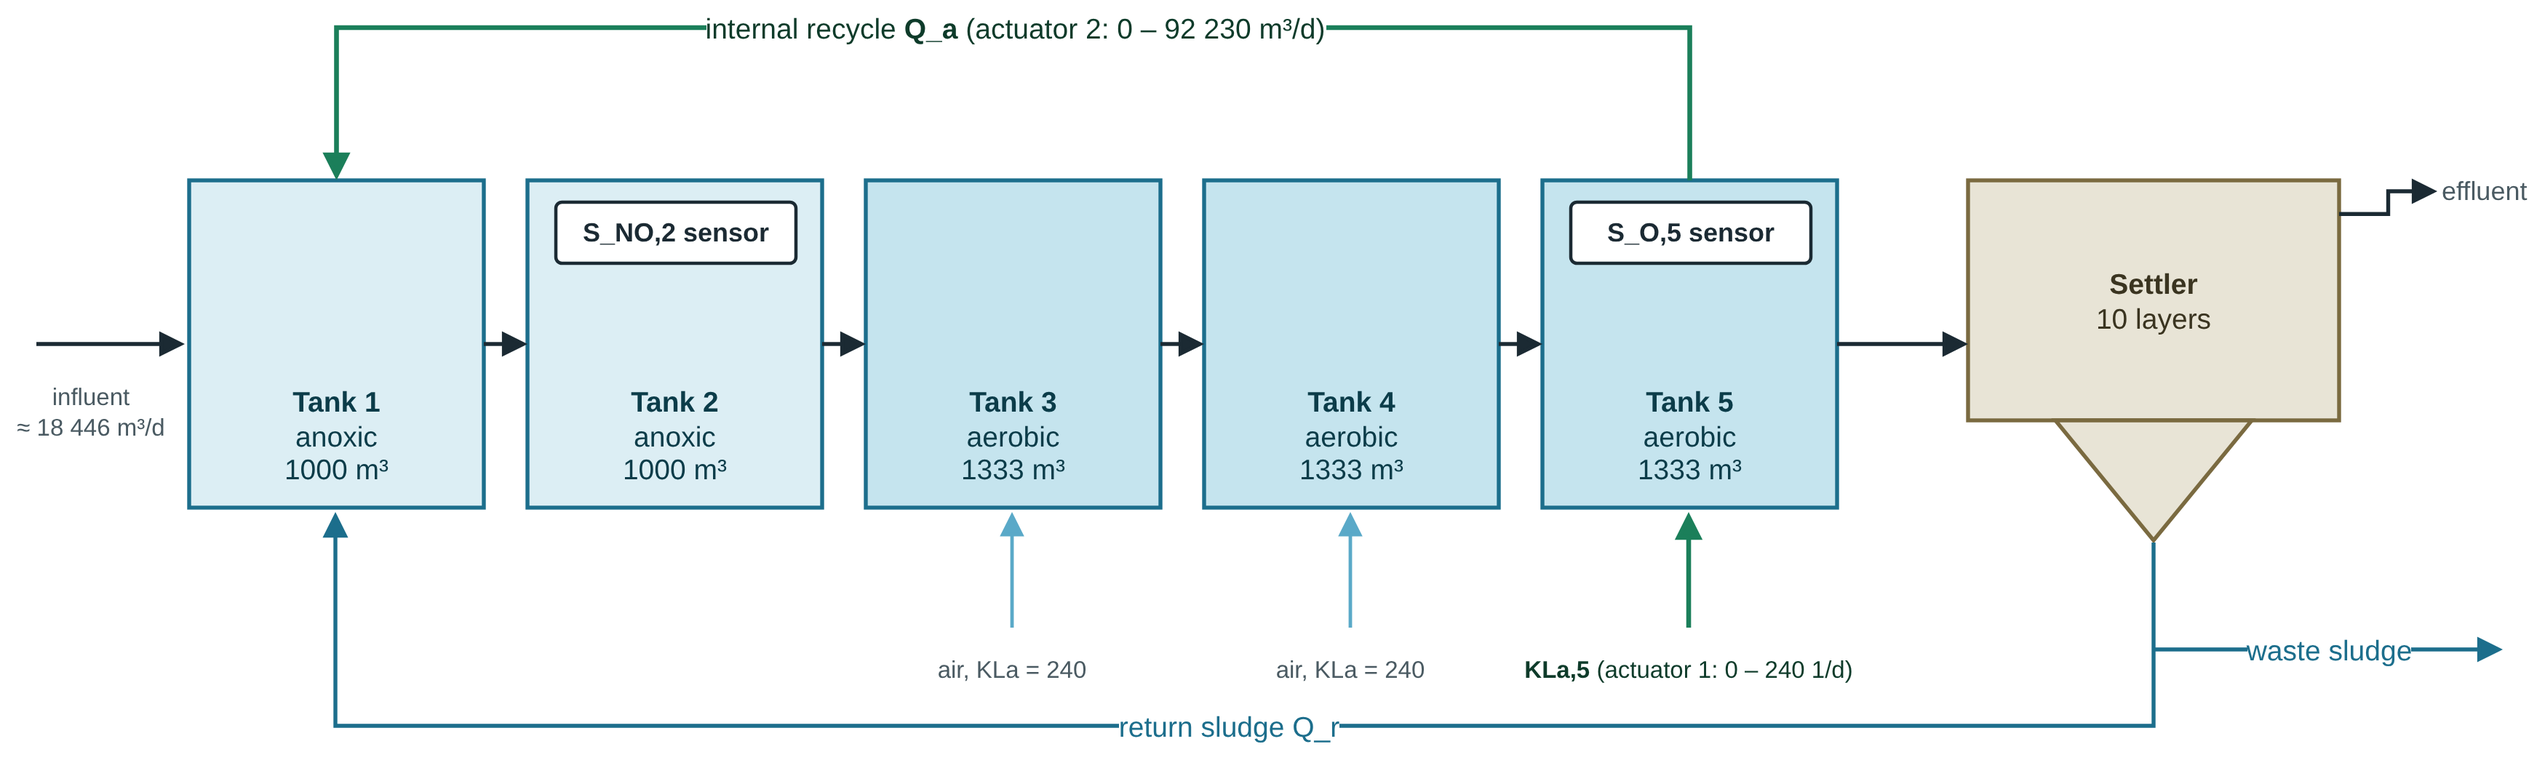
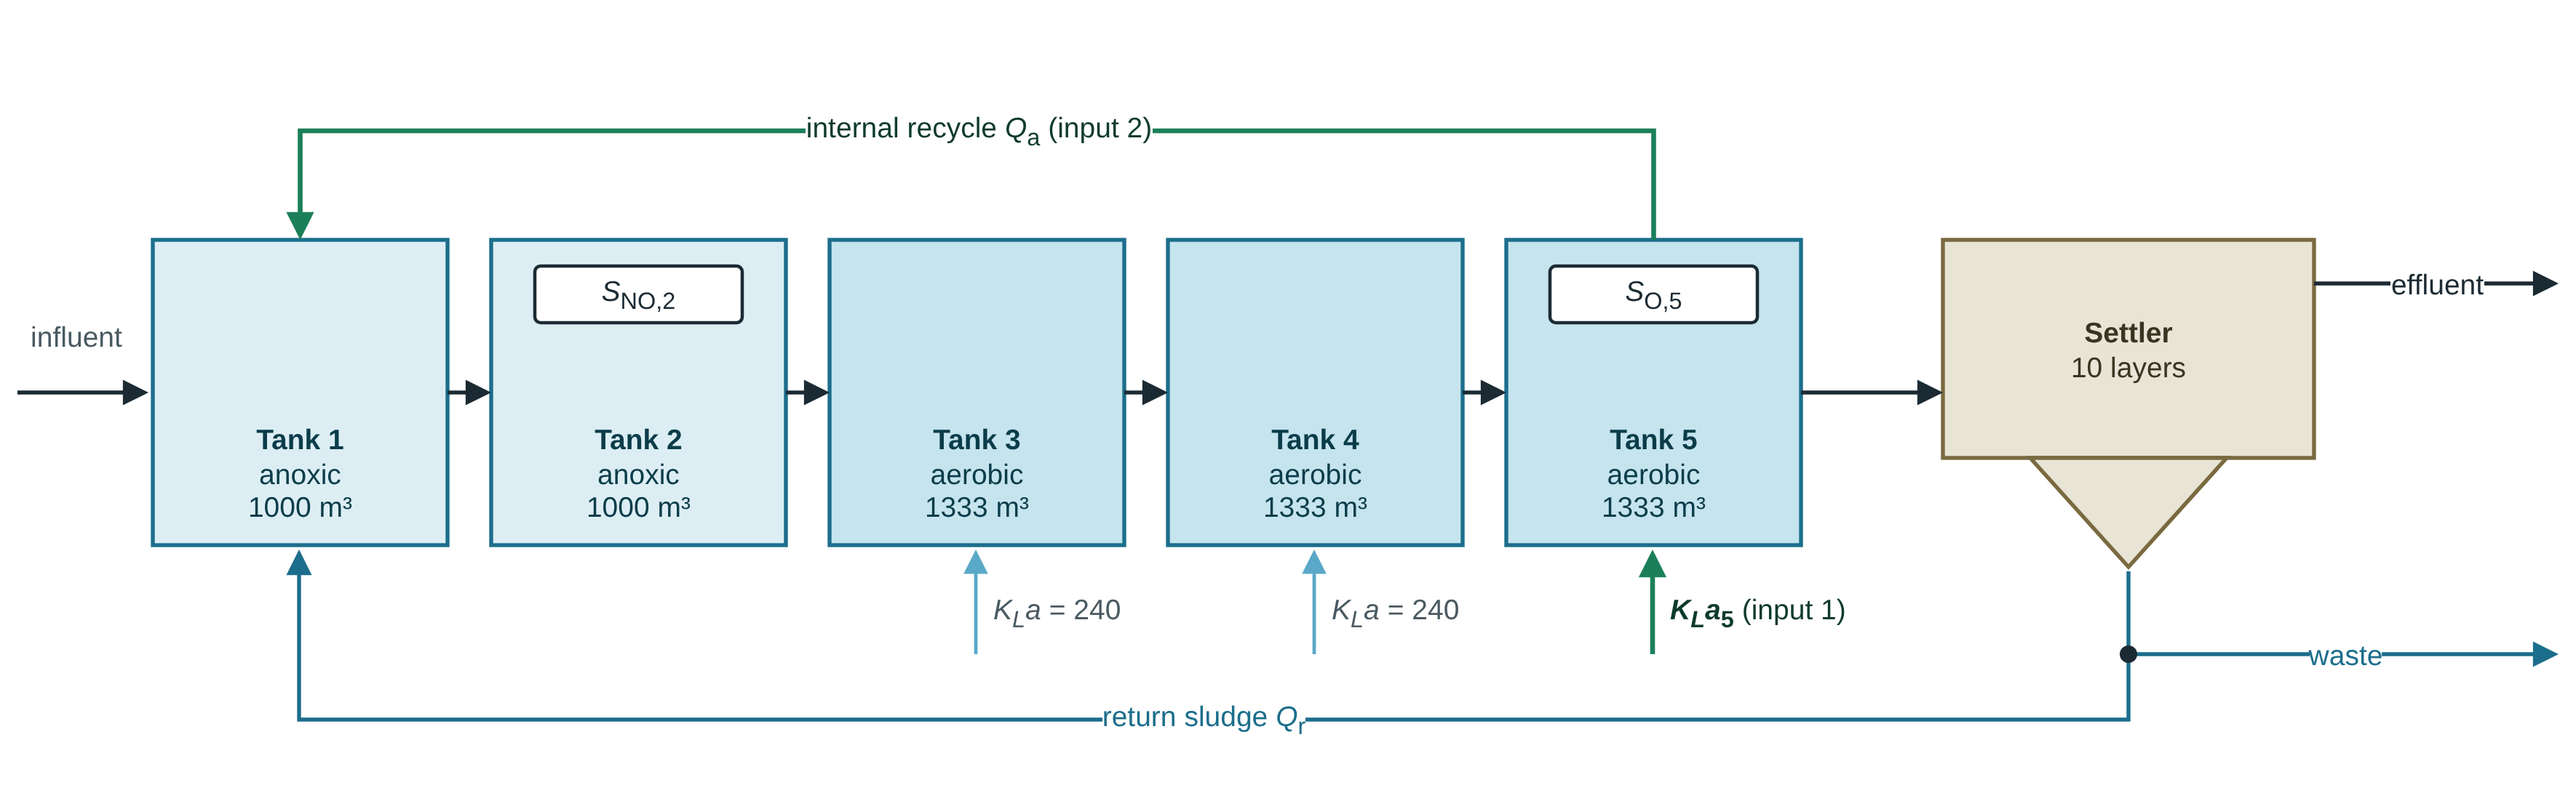
Paper 1: clean paper diagrams (draw.io), headline and in-plant trace figures

diff --git a/experiments/47_paper1_paper_figures.py b/experiments/47_paper1_paper_figures.py
@@ -1,0 +1,120 @@
+"""Two figures for the paper, drawn from stored results only (no number typed by hand).
+
+f0_headline.png  base vs ours: % change of oxygen IAE against the paper's PID, paired over the
+                 runs both finished (results/paper1_final_figure_table.json, written by script 45).
+f8_inside.png    what the controller does: true oxygen and aeration over two days of the dry test
+                 week, paper's PID against tuned PID + ILC (results/traces_paper1_study.json).
+"""
+from __future__ import annotations
+
+import json
+from pathlib import Path
+
+import matplotlib
+
+matplotlib.use("Agg")
+import matplotlib.pyplot as plt  # noqa: E402
+import numpy as np  # noqa: E402
+
+ROOT = Path(__file__).resolve().parents[1]
+RES = ROOT / "results"
+OUT = ROOT / "docs" / "figures" / "final"
+INK, INK2, MUTED, GRID, AXIS, SURF = "#0b0b0b", "#52514e", "#898781", "#e1e0d9", "#c3c2b7", "#fcfcfb"
+BLUE, GREEN = "#2a78d6", "#118a62"          # validated pair (all six checks pass on SURF)
+plt.rcParams.update({
+    "font.family": "DejaVu Sans", "font.size": 9, "text.color": INK, "axes.labelcolor": INK2,
+    "axes.edgecolor": AXIS, "axes.linewidth": 0.8, "xtick.color": INK2, "ytick.color": INK2,
+    "axes.grid": True, "grid.color": GRID, "grid.linewidth": 0.6, "axes.axisbelow": True,
+    "axes.spines.top": False, "axes.spines.right": False, "figure.facecolor": SURF, "axes.facecolor": SURF,
+    "savefig.facecolor": SURF, "legend.frameon": False, "axes.titlesize": 9.5, "axes.titlelocation": "left",
+})
+
+
+def paired(S, cond, c, ref="PID"):
+    a, b = S[cond][c]["units"], S[cond][ref]["units"]
+    common = sorted(set(a) & set(b))
+    if not common:
+        return None
+    return 100 * (np.mean([a[u] for u in common]) / np.mean([b[u] for u in common]) - 1)
+
+
+def headline():
+    S = json.loads((RES / "paper1_final_figure_table.json").read_text())
+    conds = [("tw_dry", "Dry"), ("tw_rain", "Rain"), ("tw_storm", "Storm"), ("H4", "New\ninfluent (H4)"),
+             ("H6", "Sensors\n(H6)"), ("H7", "Influent +\nsensors (H7)")]
+    series = [("MAACC", "Base: MAACC as printed", INK2), ("PIDtuned+ILC", "Ours: tuned PID + ILC", BLUE),
+              ("Robust", "Ours: robust variant", GREEN)]
+    fig, ax = plt.subplots(figsize=(7.2, 3.4))
+    w, gap = 0.26, 0.02
+    for i, (c, lab, col) in enumerate(series):
+        for j, (cond, _) in enumerate(conds):
+            x = j + (i - 1) * (w + gap)
+            v = paired(S, cond, c)
+            if v is None:                       # every run failed: marked, never drawn as a value
+                ax.text(x, 3, "✗\nall\nfailed", ha="center", va="bottom", fontsize=7, color=INK2, linespacing=0.95)
+                continue
+            ax.bar(x, v, w, color=col, zorder=3)
+            if c != "MAACC" or abs(v) > 0.5:
+                ax.text(x, v + (2 if v >= 0 else -2), f"{v:+.0f}".replace("-", "−"), ha="center", va="bottom" if v >= 0 else "top",
+                        fontsize=7.5, color=INK)
+            else:
+                ax.text(x, 2, "0", ha="center", va="bottom", fontsize=7.5, color=INK)
+    ax.axhline(0, color=INK, lw=1.0, zorder=4)
+    ax.axvline(3.5, color=AXIS, lw=0.8, ls=(0, (3, 3)))
+    ax.text(1.5, 78, "ideal sensors", ha="center", fontsize=8.5, color=INK2)
+    ax.text(4.5, 78, "official sensor noise", ha="center", fontsize=8.5, color=INK2)
+    ax.set_xticks(range(len(conds)), [l for _, l in conds])
+    ax.tick_params(axis="x", length=0)
+    ax.set_ylim(-105, 92)
+    ax.set_yticks([-100, -75, -50, -25, 0, 25, 50], ["−100", "−75", "−50", "−25", "0 = paper's PID", "+25", "+50"])
+    ax.set_ylabel("oxygen IAE vs paper's PID (%)\n← better        worse →")
+    ax.grid(axis="x", visible=False)
+    h = [plt.Rectangle((0, 0), 1, 1, color=col) for _, _, col in series]
+    ax.legend(h, [l for _, l, _ in series], loc="lower right", fontsize=8, ncol=1, bbox_to_anchor=(1.0, 0.0))
+    fig.tight_layout()
+    fig.savefig(OUT / "f0_headline.png", dpi=300)
+    plt.close(fig)
+
+
+def inside():
+    T = json.loads((RES / "traces_paper1_study.json").read_text())
+    a, b = np.array(T["PID|dry|clean"]["s"]), np.array(T["PIDtuned+ILC|dry|clean"]["s"])
+    ua, ub = np.array(T["PID|dry|clean"]["u"]), np.array(T["PIDtuned+ILC|dry|clean"]["u"])
+    n = len(a)
+    t = np.arange(n) * 14.0 / n                     # days
+    m = (t >= 9.0) & (t < 11.0)                     # two weekdays of the test week
+    fig, (ax1, ax2, ax3) = plt.subplots(3, 1, figsize=(7.2, 5.4), sharex=True,
+                                        gridspec_kw=dict(height_ratios=[1.1, 1, 0.8]))
+    ax1.axhline(2.0, color=MUTED, lw=1.0, ls=(0, (4, 3)), zorder=2)
+    ax1.plot(t[m], a[m, 0], color=INK2, lw=1.4, zorder=3)
+    ax1.plot(t[m], b[m, 0], color=BLUE, lw=1.6, zorder=4)
+    ax1.set_ylabel("true $S_{O,5}$ (mg/L)")
+    ax1.set_title("A. Oxygen in tank 5 (set point 2 mg/L)")
+    lo, hi = a[m, 0].min(), a[m, 0].max()
+    pad = 0.15 * (hi - lo)
+    ax1.set_ylim(lo - pad, hi + 2 * pad)
+    ax2.plot(t[m], ub[m, 0], color=BLUE, lw=2.2)
+    ax2.plot(t[m], ua[m, 0], color=INK2, lw=1.1, ls=(0, (4, 2)))
+    ax2.set_ylabel("$K_La_{,5}$ (1/d)")
+    ax2.set_title("B. Aeration: almost the same for both (PID dashed)")
+    dd = ub[m, 0] - ua[m, 0]
+    ax3.axhline(0, color=INK, lw=0.8)
+    ax3.plot(t[m], dd, color=BLUE, lw=1.4)
+    ax3.set_ylabel("difference (1/d)")
+    ax3.set_title(f"C. Tuned PID + ILC minus paper's PID: at most {np.abs(dd).max():.0f} 1/d, "
+                  "timed with the daily load")
+    ax3.set_xlabel("time (days, dry test week)")
+    ax3.set_xlim(9.0, 11.0)
+    ea = np.mean(np.abs(a[m, 0] - 2)); eb = np.mean(np.abs(b[m, 0] - 2))
+    ax1.legend([plt.Line2D([], [], color=INK2, lw=1.6), plt.Line2D([], [], color=BLUE, lw=1.6)],
+               [f"paper's PID (mean |e| {ea:.4f})", f"tuned PID + ILC (mean |e| {eb:.4f})"],
+               loc="upper right", fontsize=8, ncol=2)
+    fig.tight_layout()
+    fig.savefig(OUT / "f8_inside.png", dpi=300)
+    plt.close(fig)
+    print(f"days 9-11 mean |e|: PID {ea:.5f}, tuned PID + ILC {eb:.5f}")
+
+
+if __name__ == "__main__":
+    headline()
+    inside()

diff --git a/tools/diagrams/build_paper.py b/tools/diagrams/build_paper.py
@@ -1,0 +1,103 @@
+"""Paper diagrams, version 2: no titles (the caption names the figure), short labels,
+straight orthogonal arrows, no crossings. Every box placed by hand. Writes v2/*.drawio."""
+from dio import Diagram
+
+SUB = lambda a, b: f"{a}<sub>{b}</sub>"
+DOT = "shape=ellipse;aspect=fixed;fillColor=#1B2A33;strokeColor=none;"
+
+
+def plant():
+    d = Diagram("BSM1 plant", 1180, 360)
+    t = []
+    for k, x in enumerate((70, 225, 380, 535, 690)):
+        air = k >= 2
+        t.append(d.box(x, 110, 135, 140, f"<b>Tank {k+1}</b><br>{'aerobic' if air else 'anoxic'}<br>"
+                       f"{'1333' if air else '1000'} m³", "tankair" if air else "tank"))
+    s = d.box(890, 110, 170, 100, "<b>Settler</b><br>10 layers", "settler")
+    d.box(930, 210, 90, 50, "", "hopper")
+    d.line((8, 180), (68, 180), "")
+    d.box(4, 140, 62, 28, "influent", "textc", "fontSize=13;")
+    for a, b in zip(t, t[1:]):
+        d.edge(a, b, ex=(1, 0.5), en=(0, 0.5))
+    d.edge(t[4], s, ex=(1, 0.5), en=(0, 0.7))
+    d.line((1060, 130), (1172, 130), "effluent")
+    d.edge(t[4], t[0], f"internal recycle {SUB('<i>Q</i>', 'a')}  (input 2)", kind="new",
+           ex=(0.5, 0), en=(0.5, 0), pts=((757, 60), (137, 60)))
+    d.line((975, 262), (137, 252), f"return sludge {SUB('<i>Q</i>', 'r')}", kind="fb", pts=((975, 330), (137, 330)))
+    d.line((975, 300), (1172, 300), "waste", kind="fb")
+    d.box(971, 296, 8, 8, "", "white", DOT)
+    for k, x in enumerate((447, 602, 757)):
+        last = k == 2
+        d.line((x, 300), (x, 252), "", kind="new" if last else "air")
+        d.box(x + 6, 268, 130, 26, ("<b>" + SUB("<i>K<sub>L</sub>a</i>", "5") + "</b> (input 1)") if last
+              else "<i>K<sub>L</sub>a</i> = 240", "text", "fontSize=13;" + ("fontColor=#0E3B2A;" if last else ""))
+    d.box(245, 122, 95, 26, SUB("<i>S</i>", "NO,2"), "white", "fontSize=13;")
+    d.box(710, 122, 95, 26, SUB("<i>S</i>", "O,5"), "white", "fontSize=13;")
+    d.save("paper/plant.drawio")
+
+
+def maacc():
+    d = Diagram("MAACC (paper 1)", 930, 450)
+    d.box(20, 20, 640, 410, "Agent <i>i</i>  (<i>i</i> = 1 oxygen, <i>i</i> = 2 nitrate)", "group")
+    act = d.box(50, 80, 170, 60, "Action network<br>Δ<i>a<sub>i</sub></i> = π<sub><i>i</i></sub>(<i>z<sub>i</sub></i>)", "paper")
+    itg = d.box(270, 80, 130, 60, "Integrate<br><i>a<sub>i</sub></i> ← <i>a<sub>i</sub></i> + Δ<i>a<sub>i</sub></i>", "paper")
+    sm = d.box(490, 85, 50, 50, "Σ", "sum")
+    pid = d.box(440, 200, 150, 60, "Expert PID<br><i>b<sub>i</sub></i>(<i>z<sub>i</sub></i>)", "paper")
+    cr = d.box(170, 230, 190, 60, "Critic <i>Q<sub>i</sub></i>(<i>z</i>, <i>a</i><sub>1</sub>, <i>a</i><sub>2</sub>)<br>one-step TD update", "paper")
+    z = d.box(195, 350, 140, 50, "<i>z</i> = <i>y</i> − <i>r</i>", "white")
+    pl = d.box(730, 70, 170, 80, "<b>BSM1</b>", "plant")
+    d.edge(act, itg, ex=(1, 0.5), en=(0, 0.5))
+    d.edge(itg, sm, "<i>a<sub>i</sub></i>", ex=(1, 0.5), en=(0, 0.5))
+    d.edge(pid, sm, "<i>b<sub>i</sub></i>", ex=(0.5, 0), en=(0.5, 1))
+    d.edge(sm, pl, "<i>u<sub>i</sub></i> = <i>a<sub>i</sub></i> + <i>b<sub>i</sub></i>", ex=(1, 0.5), en=(0, 0.5))
+    d.edge(cr, act, "∂<i>Q</i>/∂<i>a</i>", kind="learn", ex=(0, 0.5), en=(0.5, 1), pts=((135, 260),))
+    d.edge(pl, z, "<i>y</i>", kind="fb", ex=(0.5, 1), en=(1, 0.5), pts=((815, 375),))
+    d.edge(z, cr, "", kind="fb", ex=(0.5, 0), en=(0.5, 1))
+    d.edge(z, act, "", kind="fb", ex=(0, 0.5), en=(0, 0.5), pts=((32, 375), (32, 110)))
+    d.save("paper/maacc.drawio")
+
+
+def ours():
+    d = Diagram("Our controller", 1100, 420)
+    d.box(14, 156, 70, 28, "<i>r</i> = 2", "textc", "fontSize=14;")
+    s1 = d.box(110, 155, 50, 50, "Σ", "sum")
+    d.line((84, 180), (108, 180), "")
+    pid = d.box(205, 150, 150, 60, "<b>Tuned PID</b>", "new")
+    s2 = d.box(450, 155, 50, 50, "Σ", "sum")
+    lim = d.box(570, 150, 130, 60, "Limit<br>0–240 d<sup>−1</sup>", "white")
+    pl = d.box(800, 140, 170, 80, "<b>BSM1</b><br>tank 5", "plant")
+    ilc = d.box(400, 30, 150, 60, "<b>Daily ILC</b>", "new")
+    sen = d.box(820, 290, 130, 60, "Sensor<br>delay + noise", "white")
+    flt = d.box(540, 290, 150, 60, "<b>Filter</b><br>τ = 0.75 min", "new")
+    d.edge(s1, pid, "<i>e</i>", ex=(1, 0.5), en=(0, 0.5))
+    d.edge(pid, s2, SUB("<i>u</i>", "PID"), ex=(1, 0.5), en=(0, 0.5))
+    d.edge(s2, lim, "", ex=(1, 0.5), en=(0, 0.5))
+    d.edge(lim, pl, "<i>K<sub>L</sub>a</i><sub>5</sub>", ex=(1, 0.5), en=(0, 0.5))
+    d.line((970, 180), (1090, 180), SUB("<i>S</i>", "O,5"))
+    d.edge(pid, ilc, SUB("<i>u</i>", "PID"), kind="new", ex=(0.5, 0), en=(0, 0.5), pts=((280, 60),))
+    d.edge(ilc, s2, "<i>f</i>(<i>t</i>)", kind="new", ex=(0.5, 1), en=(0.5, 0))
+    d.edge(lim, ilc, "at limit", kind="upd", ex=(0.5, 0), en=(1, 0.5), pts=((635, 60),))
+    d.edge(pl, sen, "", kind="fb", ex=(0.5, 1), en=(0.5, 0))
+    d.edge(sen, flt, "", kind="fb", ex=(0, 0.5), en=(1, 0.5))
+    d.edge(flt, s1, SUB("<i>y</i>", "m"), kind="fb", ex=(0, 0.5), en=(0.5, 1), pts=((135, 320),))
+    d.box(88, 150, 20, 20, "+", "textc", "fontSize=14;")
+    d.box(140, 208, 20, 20, "−", "textc", "fontSize=16;")
+    d.box(20, 380, 18, 18, "", "new")
+    d.box(46, 376, 300, 26, "added in this work", "text", "fontSize=13;")
+    d.save("paper/ours.drawio")
+
+
+def ilc():
+    d = Diagram("Daily ILC", 1060, 230)
+    a = d.box(20, 30, 280, 100, "<b>Day <i>d</i></b><br>record " + SUB("<i>u</i>", "PID") + "(<i>j</i>), <i>j</i> = 1 … 1920", "paper")
+    m = d.box(390, 30, 280, 100, "<b>Midnight</b><br><i>f</i> ← 𝒮[<i>f</i> + β ℒ(" + SUB("<i>u</i>", "PID") + " − ū)]", "new")
+    b = d.box(760, 30, 280, 100, "<b>Day <i>d</i>+1</b><br><i>u</i> = " + SUB("<i>u</i>", "PID") + " + <i>f</i>(<i>j</i>)", "paper")
+    d.edge(a, m, ex=(1, 0.5), en=(0, 0.5))
+    d.edge(m, b, ex=(1, 0.5), en=(0, 0.5))
+    d.edge(b, a, "next day", kind="upd", ex=(0.5, 1), en=(0.5, 1), pts=((900, 190), (160, 190)))
+    d.save("paper/ilc.drawio")
+
+
+for f in (plant, maacc, ours, ilc):
+    f()
+print("ok")

diff --git a/docs/paper/main.tex b/docs/paper/main.tex
@@ -208,12 +208,13 @@ is ours, not the paper's.
 
 \begin{figure*}[!t]
 \centering
-\includegraphics[width=0.92\textwidth]{d1_paper}
-\caption{MAACC as described in~\cite{wang2026maacc}: one agent per loop,
-each with an action network that outputs an increment and a critic that
-sees both loops; the control is the integrated action plus the PID output,
-$u=a+b$. Each step's data are used once, in a one-step temporal-difference
-update.}
+\includegraphics[width=0.72\textwidth]{d1_paper}
+\caption{MAACC as described in~\cite{wang2026maacc}. One agent is drawn;
+the oxygen and nitrate agents have the same form and are coupled through
+their critics, which see both loops and both actions. The action network
+outputs an increment, which is integrated and added to the PID output,
+$u_i=a_i+b_i$. Each sample is used once, in a one-step temporal-difference
+update (dashed).}
 \label{fig:maacc}
 \end{figure*}
 
@@ -254,6 +255,20 @@ other initializations; each either stayed at the PID or diverged.
 %=====================================================================
 \section{Controllers}
 \label{sec:ctrl}
+
+\begin{figure*}[!t]
+\centering
+\includegraphics[width=0.86\textwidth]{d2_ours}
+\caption{Architecture of our oxygen loop (robust variant). Green blocks are
+added in this work: the PID with gains tuned per term, the daily ILC that
+adds a feedforward $f(t)$, and a first-order filter on the measured oxygen.
+The dashed arrow is the anti-windup signal: in slots where the aeration is
+at a limit, the PID's limits are shifted by $f$ and the ILC does not learn.
+The nitrate loop is the PID alone. A learned correction (SAC-IL or the
+repaired MAACC, behind a safety gate) can be added at the second summing
+junction; on the tuned PID with ILC it changes nothing, so it is not drawn.}
+\label{fig:ours}
+\end{figure*}
 %=====================================================================
 
 Table~\ref{tab:ctrl} lists the controllers compared. Everything that is
@@ -301,9 +316,10 @@ larger search could find a still better PID.
 \begin{figure}[!t]
 \centering
 \includegraphics[width=\columnwidth]{d3_ilc}
-\caption{The daily ILC. It records the PID's output for every 45-s slot of
-the day and, at midnight, updates a feedforward profile that is applied the
-next day slightly earlier.}
+\caption{The daily ILC, one update per night. $\mathcal{L}$ advances the
+recorded profile by a few minutes and $\mathcal{S}$ smooths it, as in
+\eqref{eq:ilc}. At the update the PID's state is reduced by the same
+change, so the aeration does not jump at midnight.}
 \label{fig:ilc}
 \end{figure}
 
@@ -351,21 +367,13 @@ choices: for PID$\times$3, 24 of 60 settings are within 5\,\% of the best.
 
 \subsection{SAC with imitation learning}
 
-\begin{figure*}[!t]
-\centering
-\includegraphics[width=0.82\textwidth]{d2_ours}
-\caption{Oxygen loop of the controllers built on the tuned PID. New
-components are marked. The learned correction (SAC-IL or repaired MAACC,
-behind a safety gate) is optional; on the tuned PID with ILC it adds
-nothing. The oxygen filter and halved gains belong to the robust variant.}
-\label{fig:ours}
-\end{figure*}
 
 SAC-IL is our attempt to fix what we believe stops MAACC from learning: no
 data re-use, a random start and no exploration. A small actor (18\,564
 weights) sees the last three errors of both loops, both inputs and the
 influent flow, and adds a bounded increment, at most 6\,d$^{-1}$ per period,
-to the aeration (Fig.~\ref{fig:ours}). The reward is
+to the aeration at the second summing junction of Fig.~\ref{fig:ours}.
+The reward is
 $r=-(100|e_O|+50|e_N|)-0.05\|a\|^2$. Training on the dry training week
 proceeds in four stages: a recorded run of the expert (PID with ILC),
 behaviour cloning, a critic warm-up and five SAC~\cite{haarnoja2018sac}
@@ -472,8 +480,19 @@ red worse; dark cells mean every run failed.}
 \label{fig:matrix}
 \end{figure*}
 
-Fig.~\ref{fig:matrix} summarizes all results. The tables below give the
-numbers.
+\begin{figure}[!t]
+\centering
+\includegraphics[width=\columnwidth]{f0_headline}
+\caption{Base against ours, in brief: change in oxygen IAE against the
+paper's PID (paired over the runs both finished). Left: ideal sensors, as in
+the paper's own test, and new influent. Right: the official BSM1 sensor
+noise. MAACC as printed lost 1 of 6 windows on new influent (H4).}
+\label{fig:headline}
+\end{figure}
+
+Fig.~\ref{fig:headline} gives the main result in brief and
+Fig.~\ref{fig:matrix} gives every controller in every test. The tables
+below give the numbers.
 
 \subsection{Test week}
 
@@ -536,6 +555,18 @@ results. Four observations:
 
 \begin{figure}[!t]
 \centering
+\includegraphics[width=\columnwidth]{f8_inside}
+\caption{Two days of the dry test week. (a) True oxygen: the paper's PID
+dips at every morning load rise; the tuned PID with ILC stays at the set
+point (mean $|e|$ 0.0112 against 0.0010 over these two days). (b) The
+aeration is almost the same for both. (c) The difference is at most
+6\,d$^{-1}$, applied around the load rise: a small correction at the right
+time is enough.}
+\label{fig:inside}
+\end{figure}
+
+\begin{figure}[!t]
+\centering
 \includegraphics[width=\columnwidth]{f7_learning}
 \caption{Oxygen IAE on the training week after each episode, five training
 runs per learner. The repaired MAACC learns quickly from the paper's PID;
@@ -543,6 +574,7 @@ SAC-IL stays near its imitation start, and one run diverged.}
 \label{fig:learning}
 \end{figure}
 
+Fig.~\ref{fig:inside} shows what the ILC does in the plant, and
 Fig.~\ref{fig:learning} shows the learning curves. Aeration energy
 (3690\,kWh/d in dry weather) and effluent ammonium (about 2.47\,g\,N/m$^3$)
 are the same for all controllers to the precision reported. On nitrate, all

diff --git a/tools/diagrams/README.md b/tools/diagrams/README.md
@@ -31,3 +31,7 @@ expects two files in its folder:
 * `sizes.json`: the cropped title-less PNGs and their sizes;
 * `numbers.json`: the paired percentages, computed from the result files
   with the functions in `experiments/45_paper1_figures.py`.
+
+## Paper versions
+
+`build_paper.py` writes the paper diagrams in `docs/diagrams/paper/` (no titles, short labels, no crossing arrows). Run it from this folder, then `node render.js paper/*.drawio` and `node audit.js paper/*.drawio`.
